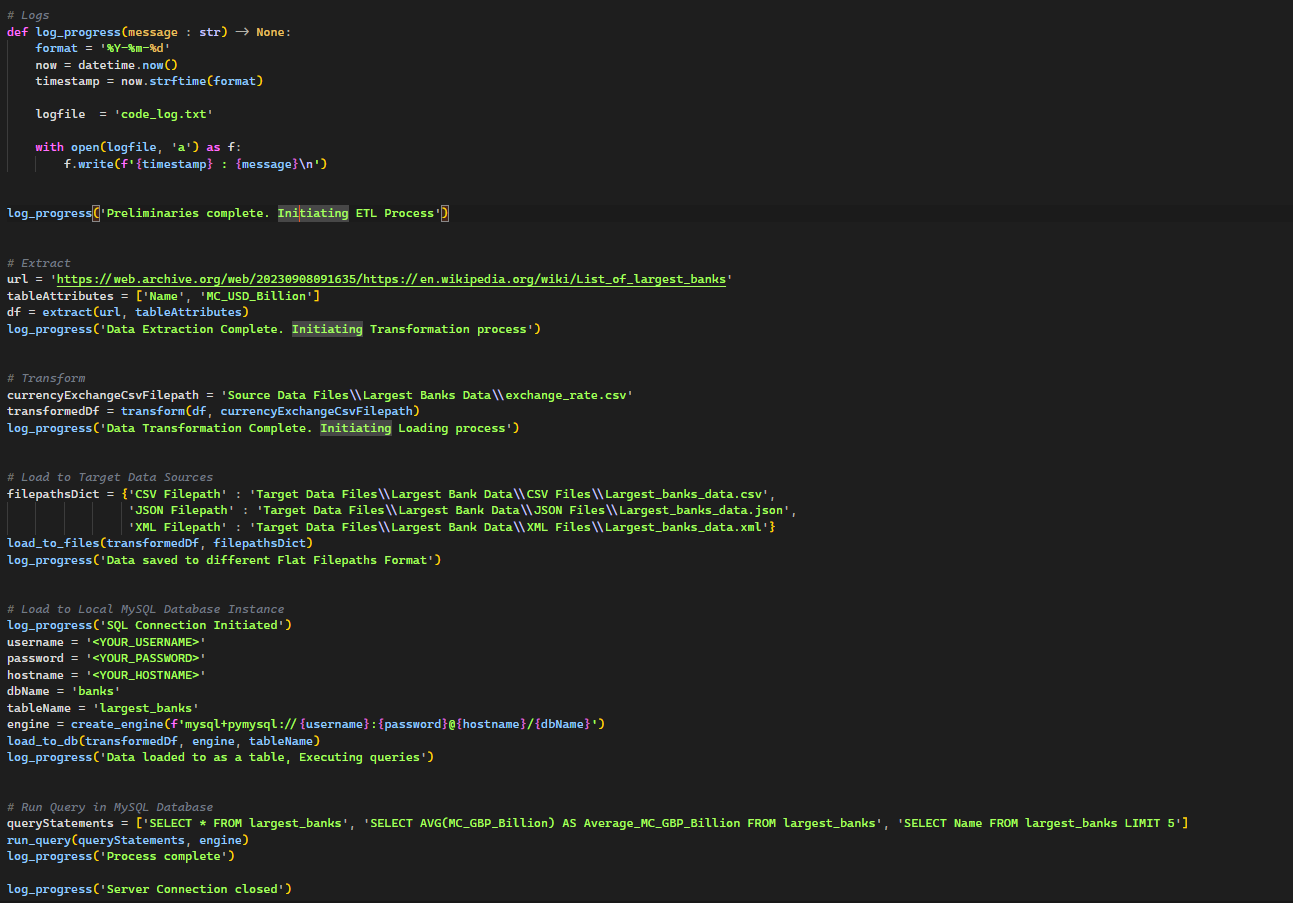
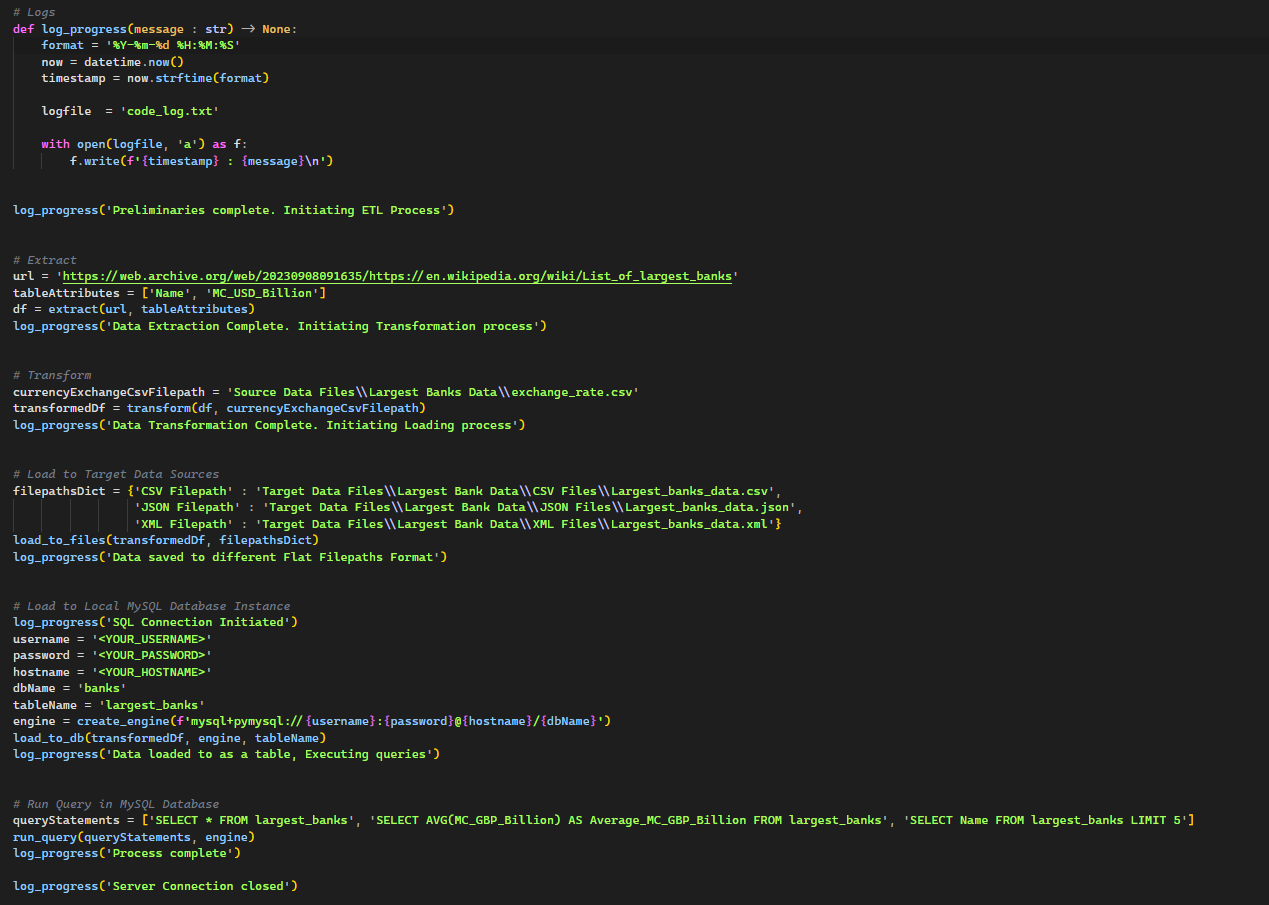
Restructure Subdirectories at Coding Challenges using Python and SQL, Modify ETL Pipeline for Extracting Largest Bank Data from Web

diff --git a/Python for Data Engineering/ETL Pipelines/Scripts/ETL Pipeline Scripts for Web Scraping/ETL Pipeline for Extracting Largest Bank Data from Web/banks_project.py b/Python for Data Engineering/ETL Pipelines/Scripts/ETL Pipeline Scripts for Web Scraping/ETL Pipeline for Extracting Largest Bank Data from Web/banks_project.py
@@ -110,7 +110,7 @@ def run_query(queryStatement : list, engine : str) -> None:
 
 # Logs
 def log_progress(message : str) -> None:
-    format = '%Y-%m-%d'
+    format = '%Y-%m-%d %H:%M:%S'
     now = datetime.now()
     timestamp = now.strftime(format)
 
